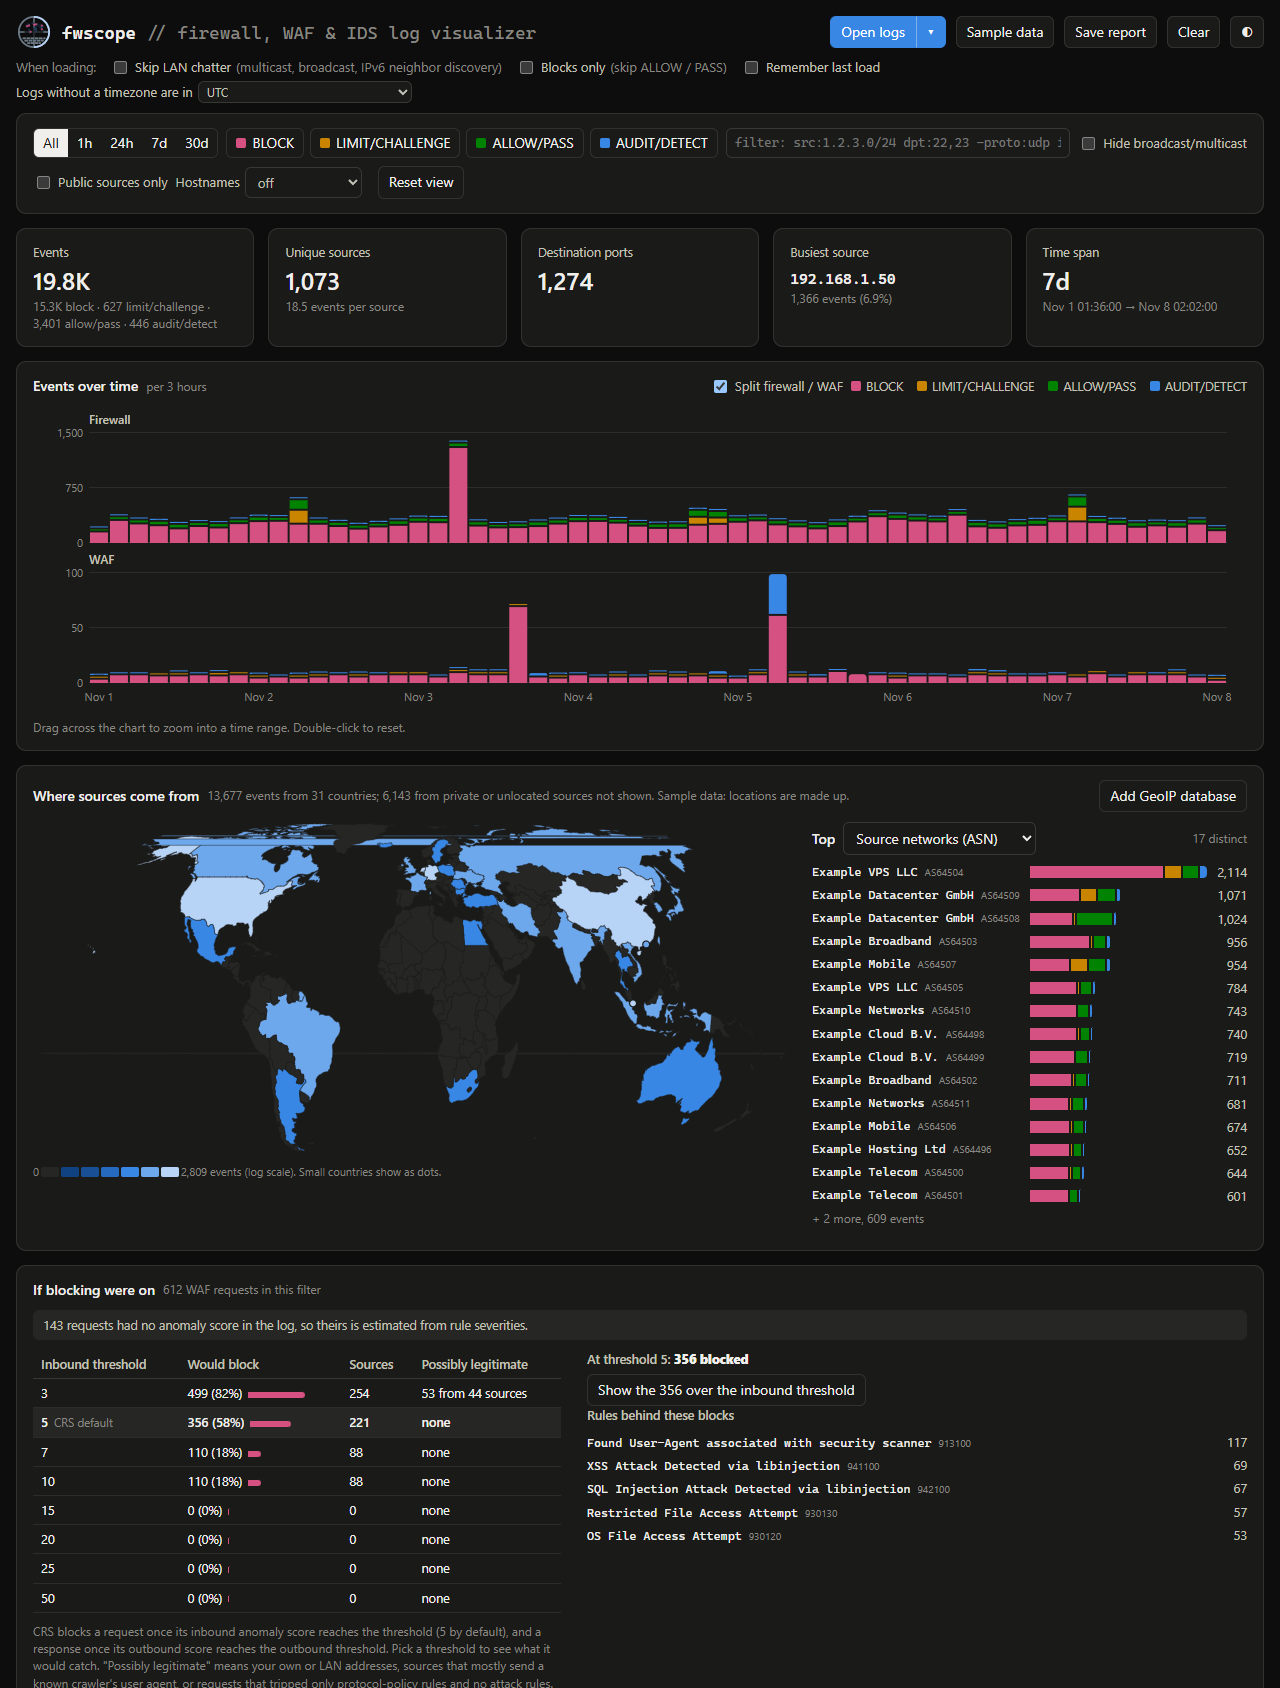
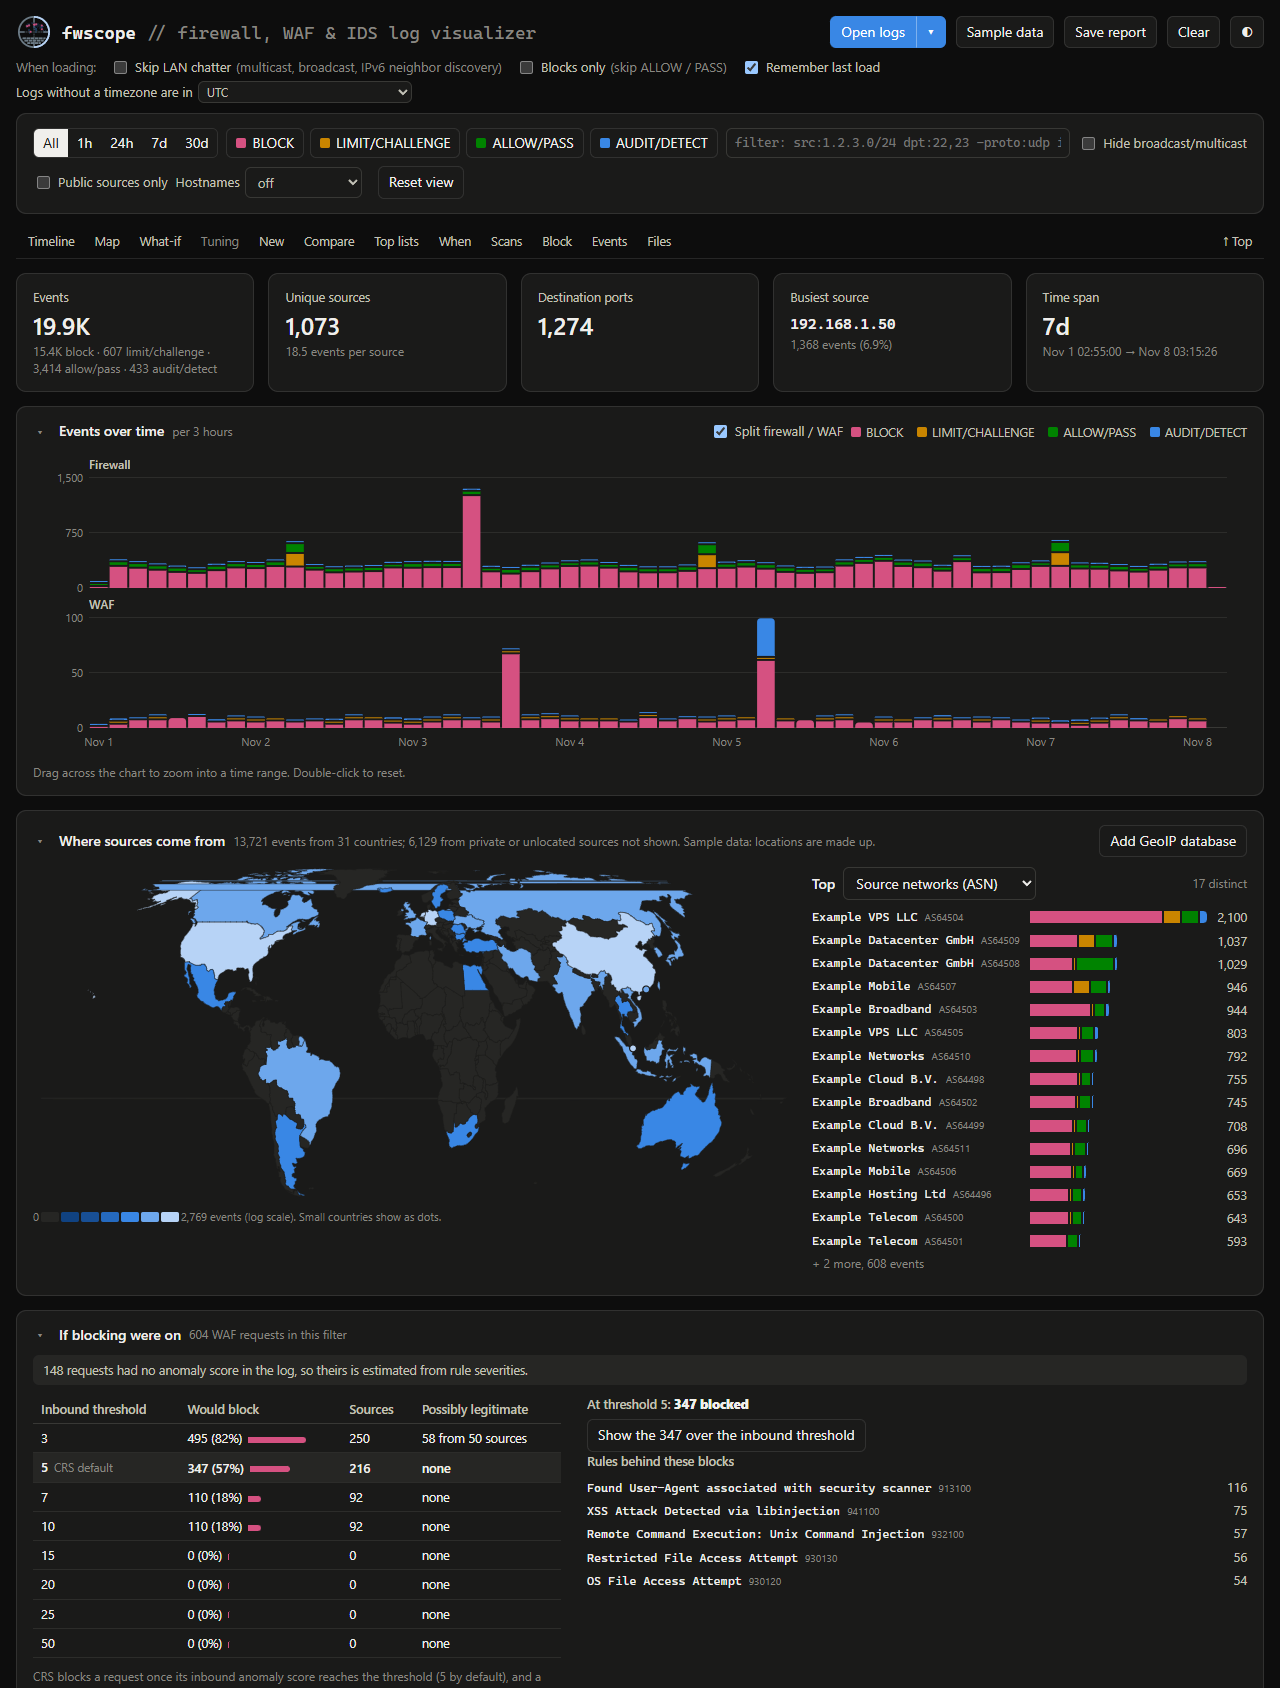
Tidier dashboard: jump bar, foldable cards, 25-row events table, top-15 block suggestions, quiet empty cards

diff --git a/index.html b/index.html
@@ -265,6 +265,20 @@ dialog .btns { display: flex; gap: 8px; justify-content: flex-end; margin-top: 1
 .since-label { font-size: 13px; color: var(--ink-2); min-width: 190px; }
 .since-more { font-size: 12px; color: var(--muted); }
 .chip-btn { font-size: 12px; padding: 2px 9px; border-radius: 10px; font-family: inherit; }
+.jump { position: sticky; top: 0; z-index: 20; display: flex; flex-wrap: wrap; gap: 2px 4px; align-items: center; padding: 6px 4px; margin: -4px 0 0;
+  background: var(--page); border-bottom: 1px solid var(--ring); font-size: 12.5px; }
+.jump a { color: var(--ink-2); text-decoration: none; padding: 2px 8px; border-radius: 10px; }
+.jump a:hover { background: var(--surface-2); color: var(--ink); }
+.jump a.dim { color: var(--muted); }
+.jump a.top { margin-left: auto; }
+.card > .card-head .fold { border: 0; background: none; padding: 0 4px 0 0; width: 18px; color: var(--muted); font-size: 12px; line-height: 1; }
+.card > .card-head .fold::before { content: '▾'; display: inline-block; transition: transform .15s; }
+.card.folded > .card-head .fold::before { transform: rotate(-90deg); }
+.card > .card-head h2.fold-title { cursor: pointer; }
+.card.folded > :not(.card-head), .card.quiet > :not(.card-head) { display: none !important; }
+.card.folded > .card-head, .card.quiet > .card-head { margin-bottom: 0; }
+.card.quiet h2 { color: var(--ink-2); }
+[id$="Card"], #rankGrid { scroll-margin-top: 44px; }
 .credit { color: var(--muted); font-size: 12px; text-align: center; margin: 8px 0 24px; }
 .credit a { color: inherit; }
 [hidden] { display: none !important; }
@@ -489,6 +503,7 @@ dialog .btns { display: flex; gap: 8px; justify-content: flex-end; margin-top: 1
       <div id="qerr" class="qerr"></div>
     </div>
 
+    <nav class="jump" id="jump" aria-label="Jump to a part of the dashboard"></nav>
     <div class="tiles" id="tiles"></div>
     <div class="card since" id="sinceCard" hidden>
       <div class="card-head"><h2>Since your last visit</h2><span class="sub" id="sinceSub"></span><span class="grow"></span><button id="btnForgetVisits" title="Forget what earlier visits saw; the next visit starts fresh">Forget history</button></div>
@@ -496,7 +511,7 @@ dialog .btns { display: flex; gap: 8px; justify-content: flex-end; margin-top: 1
       <div class="hint">Compared with what this browser saw on earlier visits (it keeps hashed addresses, not the addresses). Public sources only; ports count blocked traffic. Click to filter, shift-click to exclude.</div>
     </div>
 
-    <div class="card">
+    <div class="card" id="tlCard">
       <div class="card-head"><h2>Events over time</h2><span class="sub" id="tlSub"></span><span class="grow"></span><label class="tog" id="tlSplitWrap" hidden title="Firewall and WAF events as two charts on the same time axis, each with its own scale"><input type="checkbox" id="tlSplit" checked> Split firewall / WAF</label><div class="legend" id="tlLegend"></div></div>
       <svg id="tl"></svg>
       <div class="hint">Drag across the chart to zoom into a time range. Double-click to reset.</div>
@@ -561,7 +576,7 @@ dialog .btns { display: flex; gap: 8px; justify-content: flex-end; margin-top: 1
       <div class="hint">Both periods end at the newest event loaded and use the current filter (its time range aside). Sorted by the size of the change. Click a row to filter to it.</div>
     </div>
 
-    <div class="grid2">
+    <div class="grid2" id="rankGrid">
       <div class="card" data-rank="A">
         <div class="card-head"><h2>Top</h2><select class="dimSel"></select><span class="grow"></span><span class="sub rankSub"></span></div>
         <div class="rank"></div>
@@ -575,12 +590,12 @@ dialog .btns { display: flex; gap: 8px; justify-content: flex-end; margin-top: 1
     </div>
 
     <div class="grid2">
-      <div class="card">
+      <div class="card" id="heatCard">
         <div class="card-head"><h2>When it happens</h2><span class="sub">events by weekday and hour, your local time</span></div>
         <div class="hm" id="hm"></div>
         <div class="scale" id="hmScale"></div>
       </div>
-      <div class="card">
+      <div class="card" id="scanCard">
         <div class="card-head"><h2>Scans and hammering</h2><span class="sub">blocked sources sweeping many ports, or hitting the same port over and over</span></div>
         <div class="tbl-wrap"><table id="scan"></table></div>
       </div>
@@ -603,12 +618,12 @@ dialog .btns { display: flex; gap: 8px; justify-content: flex-end; margin-top: 1
       <div class="hint">Based on your WAF logs: sources the WAF caught attacking (web scans, web hammering, attack rules, fake crawlers) whose requests still reached the web app, as they do in detection-only mode. Firewall logs, if loaded, only add supporting evidence (a port scan, "firewall + WAF"); traffic your firewall already drops isn't a reason to block anything. Never suggested: your own and LAN addresses, Cloudflare's ranges, verified crawlers, and your never-block list. Three or more strong attackers in one /24 (IPv6 /64) are also offered as the whole range. Tick what to block, then write a script; nothing is applied from here.</div>
     </div>
 
-    <div class="card">
+    <div class="card" id="evCard">
       <div class="card-head"><h2>Events</h2><span class="sub" id="evSub"></span><span class="grow"></span>
         <button id="btnCsv">Export CSV</button><button id="btnIps">Source IP list</button><button id="btnAbuse" title="Draft a report to the network owner about one source. Filter to a single source first, e.g. by clicking it in a list.">Abuse report</button>
       </div>
       <div class="tbl-wrap"><table id="ev"></table></div>
-      <div class="pager"><button id="pgNew">◀ Newer</button><button id="pgOld">Older ▶</button><span id="pgText"></span><span class="grow"></span><label class="tog"><input type="checkbox" id="oldestFirst"> Oldest first</label></div>
+      <div class="pager"><button id="pgNew">◀ Newer</button><button id="pgOld">Older ▶</button><span id="pgText"></span><span class="grow"></span><label class="tog">Rows <select id="rowsSel"><option>25</option><option>100</option><option>500</option></select></label><label class="tog"><input type="checkbox" id="oldestFirst"> Oldest first</label></div>
     </div>
     <details class="card files" id="filesCard" hidden><summary><b>Loaded files</b> <span class="sub" id="filesSub"></span></summary>
       <div class="tbl-wrap"><table id="filesTable"></table></div>
@@ -2250,11 +2265,52 @@ const groupRows = (counts, total) => {
   return rows;
 };
 
+/* ============================================================ dashboard layout: jump bar, folding, quiet cards */
+// A card with nothing to show keeps only its heading, with a short reason next to it.
+function quiet(card, on, why) {
+  if (!card) return;
+  card.classList.toggle('quiet', !!on);
+  let q = card.querySelector(':scope > .card-head > .quiet-why');
+  if (on && why) { if (!q) { q = el('span', 'sub quiet-why'); card.querySelector(':scope > .card-head').append(q); } q.textContent = '· ' + why; }
+  else if (q) q.remove();
+  jumpBar();
+}
+// Fold any card by its heading; folded cards are remembered in this browser.
+const cardKey = c => c.id || (c.dataset.rank ? 'rank' + c.dataset.rank : '');
+let FOLDED = new Set(); try { FOLDED = new Set(JSON.parse(localStorage.getItem('fwscope-folded') || '[]')); } catch {}
+function foldable() {
+  for (const card of document.querySelectorAll('#dash .card')) {
+    const head = card.querySelector(':scope > .card-head'), key = cardKey(card);
+    if (!head || !key || head.querySelector('.fold')) continue;
+    const b = el('button', 'fold'); b.type = 'button';
+    const h2 = head.querySelector('h2');
+    const set = on => { card.classList.toggle('folded', on); b.setAttribute('aria-expanded', on ? 'false' : 'true'); b.title = (on ? 'Show ' : 'Fold ') + (h2 ? h2.textContent.trim() : 'this card'); b.setAttribute('aria-label', b.title); };
+    b.onclick = () => { const on = !card.classList.contains('folded'); set(on); on ? FOLDED.add(key) : FOLDED.delete(key); try { localStorage.setItem('fwscope-folded', JSON.stringify([...FOLDED])); } catch {} };
+    if (h2) { h2.classList.add('fold-title'); h2.onclick = () => b.click(); }
+    head.prepend(b); set(FOLDED.has(key));
+  }
+}
+// Jump bar: one link per part of the dashboard that's showing, so nothing is more than a click away.
+const JUMPS = [['tlCard', 'Timeline'], ['sinceCard', 'Since last visit'], ['geoCard', 'Map'], ['whatifCard', 'What-if'], ['tuneCard', 'Tuning'], ['newCard', 'New'], ['cmpCard', 'Compare'],
+  ['rankGrid', 'Top lists'], ['heatCard', 'When'], ['scanCard', 'Scans'], ['blockCard', 'Block'], ['evCard', 'Events'], ['filesCard', 'Files']];
+function jumpBar() {
+  const nav = $('#jump'); if (!nav) return;
+  nav.textContent = '';
+  for (const [id, label] of JUMPS) {
+    const t = document.getElementById(id);
+    if (!t || t.hidden) continue;
+    const a = el('a', t.classList.contains('quiet') ? 'dim' : null, label); a.href = '#' + id;
+    a.onclick = e => { e.preventDefault(); if (t.classList.contains('folded')) t.querySelector('.fold')?.click(); if (t.tagName === 'DETAILS') t.open = true; t.scrollIntoView({ behavior: 'smooth', block: 'start' }); };
+    nav.append(a);
+  }
+  const top = el('a', 'top', '↑ Top'); top.href = '#'; top.onclick = e => { e.preventDefault(); scrollTo({ top: 0, behavior: 'smooth' }); }; nav.append(top);
+}
+foldable();
 /* ============================================================ render: tiles */
 function renderAll() {
   hideTip(); syncPresets();
   namesStatus(); blistStatus(); rdnsStatus(); renderTiles(); renderTimeline(); renderMap(); renderWhatIf(); renderTuning(); renderNew(); renderCompare(); renderRank('A'); renderRank('B'); renderHeat(); renderScans(); renderBlock(); renderEvents();
-  renderFiles();
+  renderFiles(); jumpBar();
   const f = D.files.map(f => `${f.name} (${fmtN(f.events)}${f.partial ? ', stopped partway' : ''})`).join(', ');
   $('#foot').textContent = `${fmtN(D.n)} events from ${D.files.length} source${D.files.length > 1 ? 's' : ''}: ${f}.` +
     (D.dupes ? ` ${fmtN(D.dupes)} duplicate lines skipped.` : '') +
@@ -3145,6 +3201,7 @@ function renderTuning() {
   const tb = $('#tuneTable'); tb.textContent = '';
   $('#tuneSub').textContent = (TUNE.length ? `${TUNE.length} candidate${TUNE.length > 1 ? 's' : ''} at threshold ${T}` : '') + (noiseOnly ? `${TUNE.length ? '; ' : ''}${fmtN(noiseOnly)} more would only cut log noise (no change in what's blocked)` : '');
   $('#btnTune').disabled = !TUNE.length;
+  quiet(card, !TUNE.length);
   if (!TUNE.length) { const tr = el('tr'); tr.append(el('td', null, noiseOnly ? `Nothing here would change what's blocked at threshold ${T}.` : 'No rule fires mostly on crawler or own-address traffic in this filter.')); tb.append(tr); return; }
   const hr = el('tr'); for (const h of ['Rule', 'Where', 'Hits', 'From crawlers / own', `Unblocks at ${T}: legit · other`, '']) hr.append(el('th', null, h)); tb.append(hr);
   for (const a of TUNE) {
@@ -3268,6 +3325,7 @@ function renderCompare() {
   note.textContent = span < L ? `The loaded logs cover less than a ${name}, so there's nothing before to compare with. Pick a shorter period or load older logs.` : `The loaded logs only cover ${fmtDur(span)}, so the earlier ${name} is incomplete.`;
   const rows = [...cnt].sort((x, y) => Math.abs(y[1][1] - y[1][0]) - Math.abs(x[1][1] - x[1][0]) || y[1][1] - x[1][1]).slice(0, 15);
   const tb = $('#cmpTable'); tb.textContent = '';
+  quiet($('#cmpCard'), !rows.length, `no events in the last two ${name}s`);
   if (!rows.length) { const tr = el('tr'); tr.append(el('td', null, `No events in the last two ${name}s for this filter.`)); tb.append(tr); return; }
   const hr = el('tr'); for (const h of [dim.label.replace(/ \(.*\)$/, ''), `Previous ${name}`, `Last ${name}`, 'Change']) hr.append(el('th', null, h)); tb.append(hr);
   for (const [k, [b, a]] of rows) {
@@ -3380,6 +3438,7 @@ function renderScans() {
   const crawlers = all.filter(r => r[2] === 'crawler').sort((a, b) => b[1].n - a[1].n).slice(0, 3); // last: usually harmless
   const rows = scans.concat(focused, crawlers);
   const tb = $('#scan'); tb.textContent = '';
+  quiet($('#scanCard'), !rows.length, 'nothing in this filter');
   if (!rows.length) { const tr = el('tr'); tr.append(el('td', null, 'No scanning or hammering sources among the blocked events in this filter.')); tb.append(tr); return; }
   const hr = el('tr'); for (const h of ['Source', ...(D.geo ? ['Network'] : []), 'Pattern', D.waf ? 'Ports / paths' : 'Ports', 'Events', 'Over', 'Sample']) hr.append(el('th', null, h)); tb.append(hr);
   for (const [src, s, pat] of rows) {
@@ -3413,7 +3472,8 @@ function renderScans() {
 }
 
 /* ============================================================ render: event table */
-const PAGE = 100;
+let PAGE = 25; // rows per page of the events table; the picker under it changes it
+try { const r = +localStorage.getItem('fwscope-rows'); if ([25, 100, 500].includes(r)) PAGE = r; } catch {}
 // Sorting: every sortable column maps a row to a small integer rank (-1 = no value, always last), so the
 // rows can be bucket-sorted in one stable pass, fast even for millions. Ties keep time order.
 const byLabel = (list, label, plain) => { const ids = list.map((_, i) => i).sort(plain ? (a, b) => { const x = label(a), y = label(b); return x < y ? -1 : x > y ? 1 : 0; } : (a, b) => label(a).localeCompare(label(b), undefined, { numeric: true })); const r = new Int32Array(list.length); ids.forEach((id, k) => r[id] = k); return r; };
@@ -3569,6 +3629,8 @@ function renderEvents() {
   $('#pgOld').textContent = sortCol ? 'Next ▶' : F.oldestFirst ? 'Newer ▶' : 'Older ▶';
 }
 $('#pgNew').onclick = () => { F.page--; renderEvents(); };
+$('#rowsSel').value = String(PAGE);
+$('#rowsSel').onchange = e => { PAGE = +e.target.value; F.page = 0; try { localStorage.setItem('fwscope-rows', PAGE); } catch {} renderEvents(); };
 $('#pgOld').onclick = () => { F.page++; renderEvents(); };
 $('#oldestFirst').onchange = e => { F.oldestFirst = e.target.checked; F.page = 0; renderEvents(); saveView(); };
 
@@ -3726,7 +3788,8 @@ $('#btnAbuse').onclick = () => abuseReport();
    Who's worth blocking: sources with attack evidence, weighted up when they got through to something open
    (allowed/passed connections, or WAF requests the server answered). Excluded: own/LAN addresses, Cloudflare,
    verified crawlers, the never-block list. Clusters of 3+ attackers in a /24 (or /64) become one range. */
-let BLOCK = [], BLOCKSEL = new Set(), blockShowDropped = false;
+let BLOCK = [], BLOCKSEL = new Set(), blockShowDropped = false, blockShowAll = false;
+const BLOCK_FIRST = 15; // rows shown before "Show all"
 const BLOCK_ALLOW_KEY = 'fwscope-never-block';
 let blockAllow = '';
 try { blockAllow = localStorage.getItem(BLOCK_ALLOW_KEY) || ''; } catch {}
@@ -3826,7 +3889,8 @@ function renderBlock() {
   const th0 = el('th'); th0.append(all); hr.append(th0);
   for (const h of ['Block', ...(D.geo ? ['Network'] : []), 'Why', 'Reached the web app']) hr.append(el('th', null, h));
   tb.append(hr);
-  for (const x of BLOCK) {
+  const shown = blockShowAll ? BLOCK.length : Math.min(BLOCK.length, BLOCK_FIRST);
+  for (const x of BLOCK.slice(0, shown)) {
     const tr = el('tr');
     const cb = el('input'); cb.type = 'checkbox'; cb.checked = BLOCKSEL.has(x.key); cb.dataset.key = x.key; cb.setAttribute('aria-label', 'Block ' + x.key);
     cb.onchange = () => { if (cb.checked) BLOCKSEL.add(x.key); else BLOCKSEL.delete(x.key); $('#blockSub').textContent = `${fmtN(BLOCKSEL.size)} of ${fmtN(BLOCK.length)} ticked`; };
@@ -3837,6 +3901,13 @@ function renderBlock() {
     const gt = el('td', null, x.reached ? `${fmtN(x.reached)} of ${fmtN(x.n)}` : `none of ${fmtN(x.n)}`); gt.title = 'WAF requests that reached the web app (not intercepted), out of all events from this source, firewall ones included';
     tr.append(el('td', 'why2', x.reasons.join('; ')), gt);
     tb.append(tr);
+  }
+  if (shown < BLOCK.length) { // the rest, one click away; ticked ones still go into the script, so say how many
+    const rest = BLOCK.slice(shown), ticked = rest.filter(x => BLOCKSEL.has(x.key)).length;
+    const tr = el('tr'), td = el('td'); td.colSpan = D.geo ? 5 : 4;
+    const b = el('button', null, `Show all ${fmtN(BLOCK.length)}`); b.onclick = () => { blockShowAll = true; renderBlock(); };
+    td.append(b, el('span', 'sub', ` ${fmtN(rest.length)} more, weaker suggestions` + (ticked ? `; ${fmtN(ticked)} of them ticked` : '')));
+    tr.append(td); tb.append(tr);
   }
 }
 function renderBlockTicks() { for (const cb of document.querySelectorAll('#blockTable input[data-key]')) cb.checked = BLOCKSEL.has(cb.dataset.key); $('#blockSub').textContent = `${fmtN(BLOCKSEL.size)} of ${fmtN(BLOCK.length)} ticked`; }
@@ -4006,6 +4077,7 @@ function saveReport() {
   const win = dash.querySelector('#newWin'); if (win) win.replaceWith(el('span', 'report-pick', live.querySelector('#newWin .on')?.textContent || ''));
   dash.querySelector('.filters')?.closest('.card')?.remove();
   dash.querySelector('#ev')?.closest('.card')?.remove();
+  dash.querySelector('#jump')?.remove(); dash.querySelectorAll('.folded').forEach(c => c.classList.remove('folded'));
   dash.querySelector('#blockCard')?.remove(); dash.querySelector('#filesCard')?.remove(); dash.querySelector('#sinceCard')?.remove();
   dash.querySelectorAll('button, input, .hint, #tip').forEach(e => e.remove());
   dash.querySelectorAll('[title="Filter to this source"]').forEach(e => e.removeAttribute('title'));

diff --git a/tests/page.test.js b/tests/page.test.js
@@ -295,3 +295,33 @@ test('host names from file names, including the <host>-<log> names fwscope-pull.
   assert.equal(p.g('hostFromFile("web1-fail2ban.log.1", "fail2ban")'), 'web1');
   assert.equal(p.g('hostFromFile("fail2ban.log", "fail2ban")'), '');
 });
+
+test('dashboard layout: 25 rows by default, foldable cards that stay folded, a jump bar, quiet empty cards', async () => {
+  const p = openPage({ url: 'http://localhost/?demo&tz=UTC' });
+  await until(() => p.g('typeof D !== "undefined" && D && D.n > 0 && D.order'));
+  await new Promise(r => setTimeout(r, 300));
+  const doc = p.w.document;
+  assert.equal(doc.querySelectorAll('#ev tr').length, 26, 'header + 25 rows');
+  p.g('$("#rowsSel").value = "100"; $("#rowsSel").dispatchEvent(new Event("change"))');
+  assert.equal(doc.querySelectorAll('#ev tr').length, 101);
+  assert.equal(p.g('localStorage.getItem("fwscope-rows")'), '100');
+  p.g('$("#geoCard .fold").click()');
+  assert.ok(doc.querySelector('#geoCard').classList.contains('folded'));
+  assert.deepEqual(JSON.parse(p.g('localStorage.getItem("fwscope-folded")')), ['geoCard']);
+  const jumps = [...doc.querySelectorAll('#jump a')].map(a => a.getAttribute('href'));
+  assert.ok(jumps.includes('#evCard') && jumps.includes('#blockCard') && jumps.includes('#tlCard'), jumps.join());
+  assert.ok(!jumps.includes('#sinceCard'), 'hidden cards get no link');
+  // the sample has no tuning candidates: that card shrinks to its heading
+  assert.ok(doc.querySelector('#tuneCard').classList.contains('quiet'));
+  // block suggestions: the strongest first, the rest one click away
+  const rows = () => doc.querySelectorAll('#blockTable input[data-key]').length;
+  assert.equal(rows(), 15);
+  assert.match(doc.querySelector('#blockTable tr:last-child').textContent, /^Show all \d+/);
+  doc.querySelector('#blockTable tr:last-child button').click();
+  assert.ok(rows() > 15);
+  // the saved report shows every card unfolded and no jump bar
+  p.w.URL.createObjectURL = () => 'blob:x'; p.w.URL.revokeObjectURL = () => {};
+  const html = p.g('saveReport()');
+  assert.ok(!html.includes('id="jump"'), 'no jump bar');
+  assert.ok(!/class="[^"]*folded/.test(html), 'no folded cards');
+});

diff --git a/CHANGELOG.md b/CHANGELOG.md
@@ -2,6 +2,17 @@
 
 What changed in each release of fwscope. The newest is at the top. Version numbers follow [semantic versioning](https://semver.org/).
 
+## Unreleased
+
+### Changed
+- **A tidier dashboard** (about a third shorter on the sample):
+  - a **jump bar** that stays at the top, with a link to each part of the dashboard that's showing
+  - **fold any card** by its heading or arrow; folded cards stay folded next time
+  - the events table shows **25 rows** by default, with a picker for 100 or 500
+  - **block suggestions** list the strongest 15 first, with **Show all** (and how many of the hidden ones are ticked)
+  - cards with nothing to show (no tuning candidates, no scans, nothing to compare) shrink to their heading
+- fwscope-pull's helper page: fields sit under their labels, and its controls follow the dark theme.
+
 ## 1.4.0 (2026-11-08)
 
 ### Added
